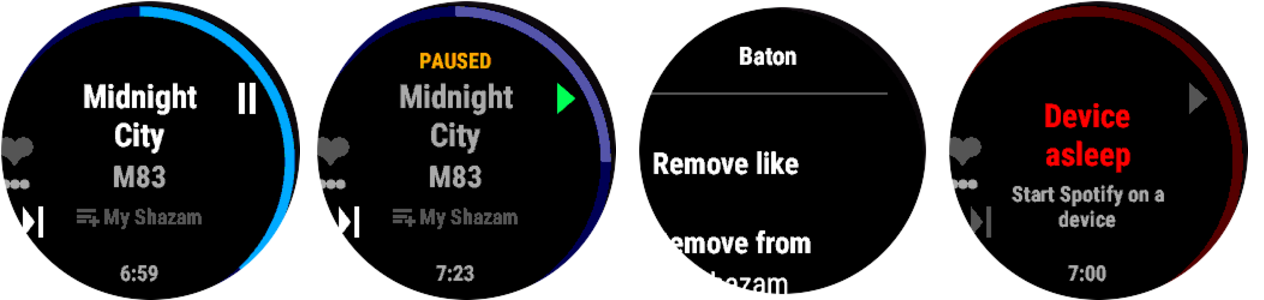
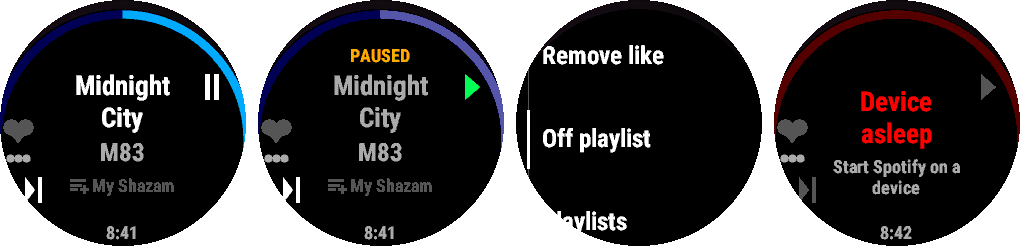
Refresh README screenshots, wrap the saved playlist form on narrow screens

diff --git a/server/baton/static/style.css b/server/baton/static/style.css
@@ -50,5 +50,6 @@ code { display: block; padding: .6rem; background: var(--bg); border-radius: .5r
   #recent li > span { flex-basis: 100%; }
   #recent button { flex: 1; }
 }
-#key-form { flex-wrap: wrap; }
-#key-form input { min-width: 8rem; }
+#key-form, #saved-form { flex-wrap: wrap; }
+#key-form input, #saved-form input { min-width: 8rem; }
+#saved-form input { flex: 1; }
